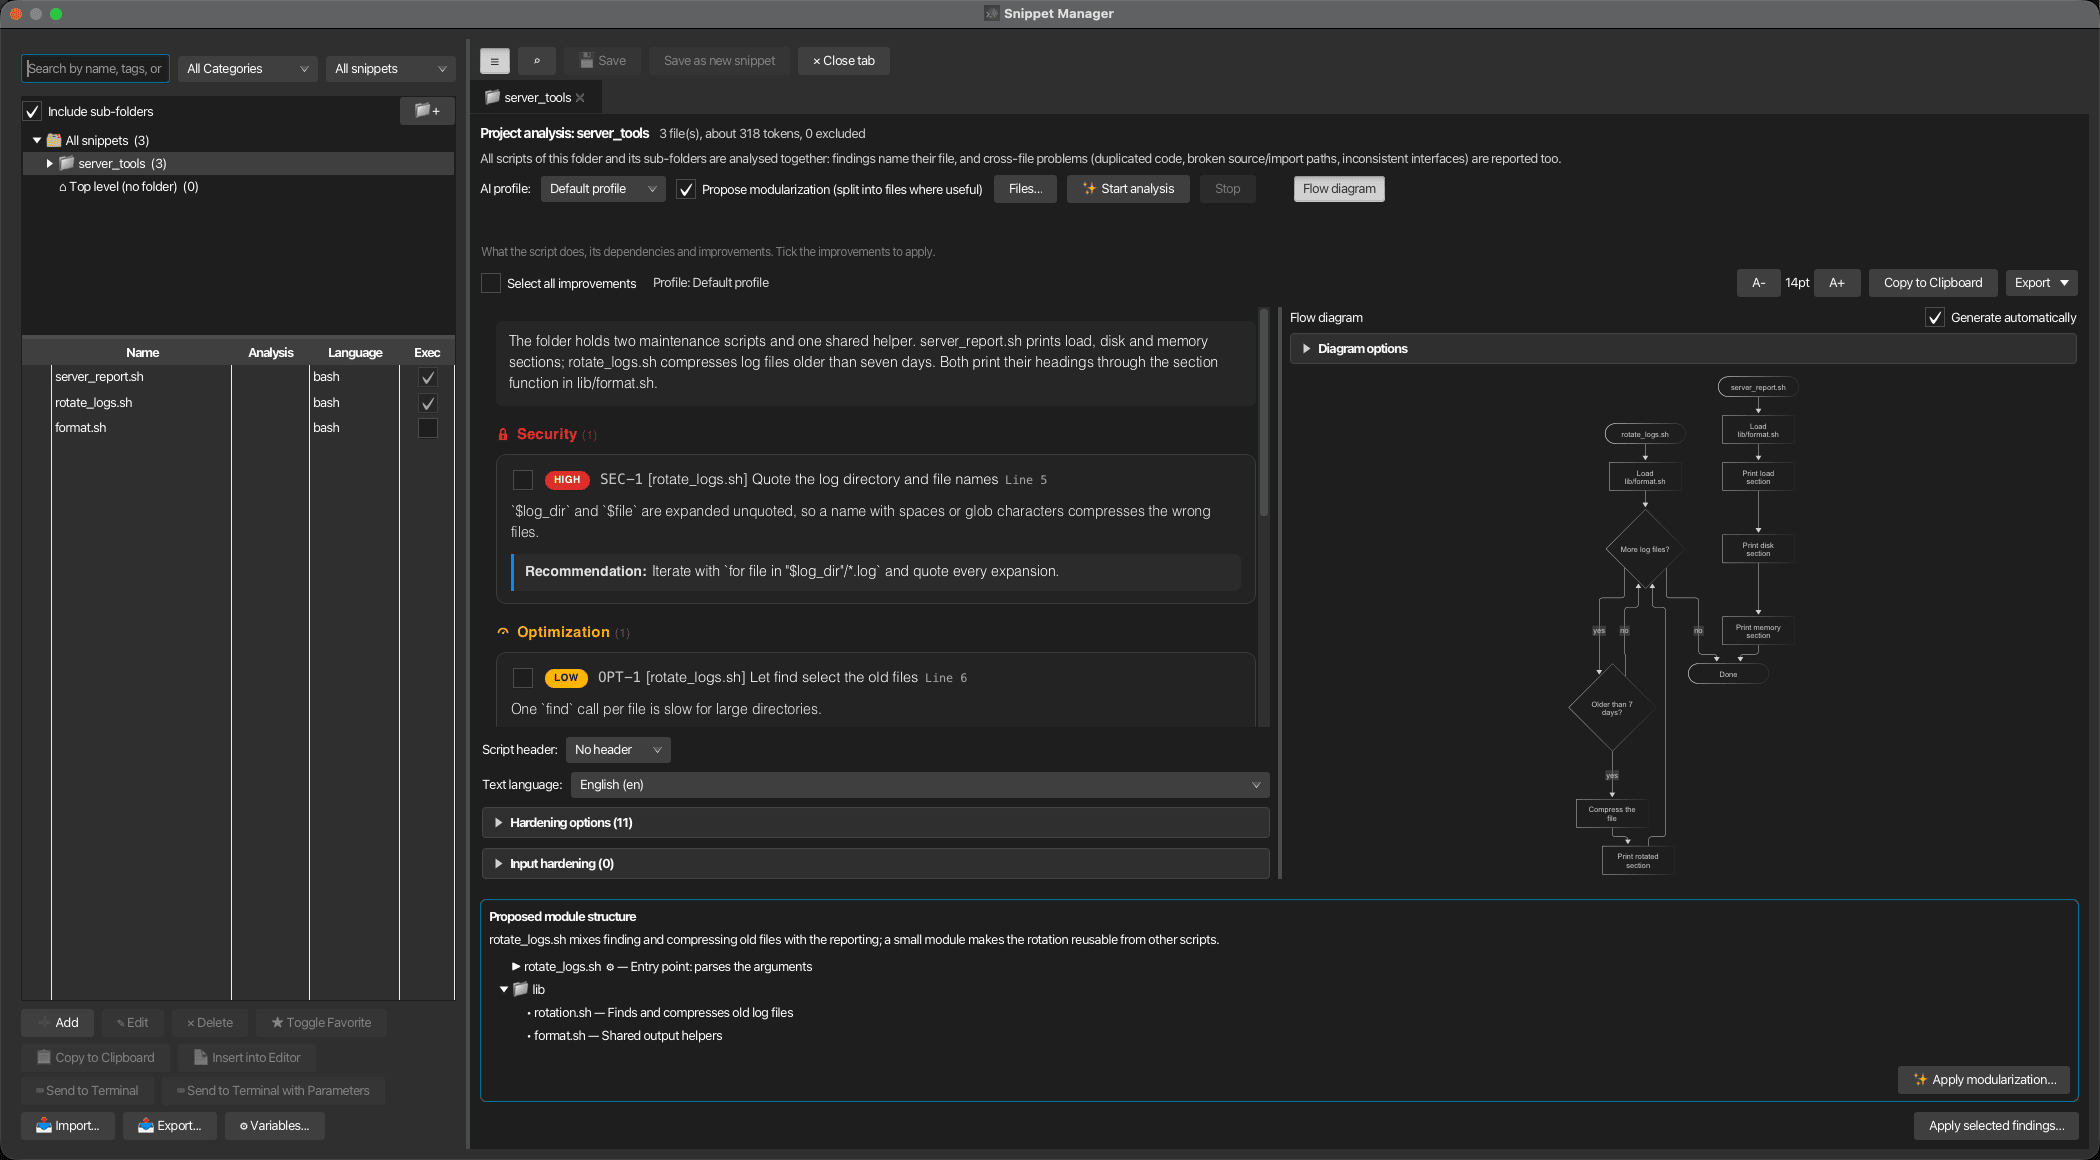
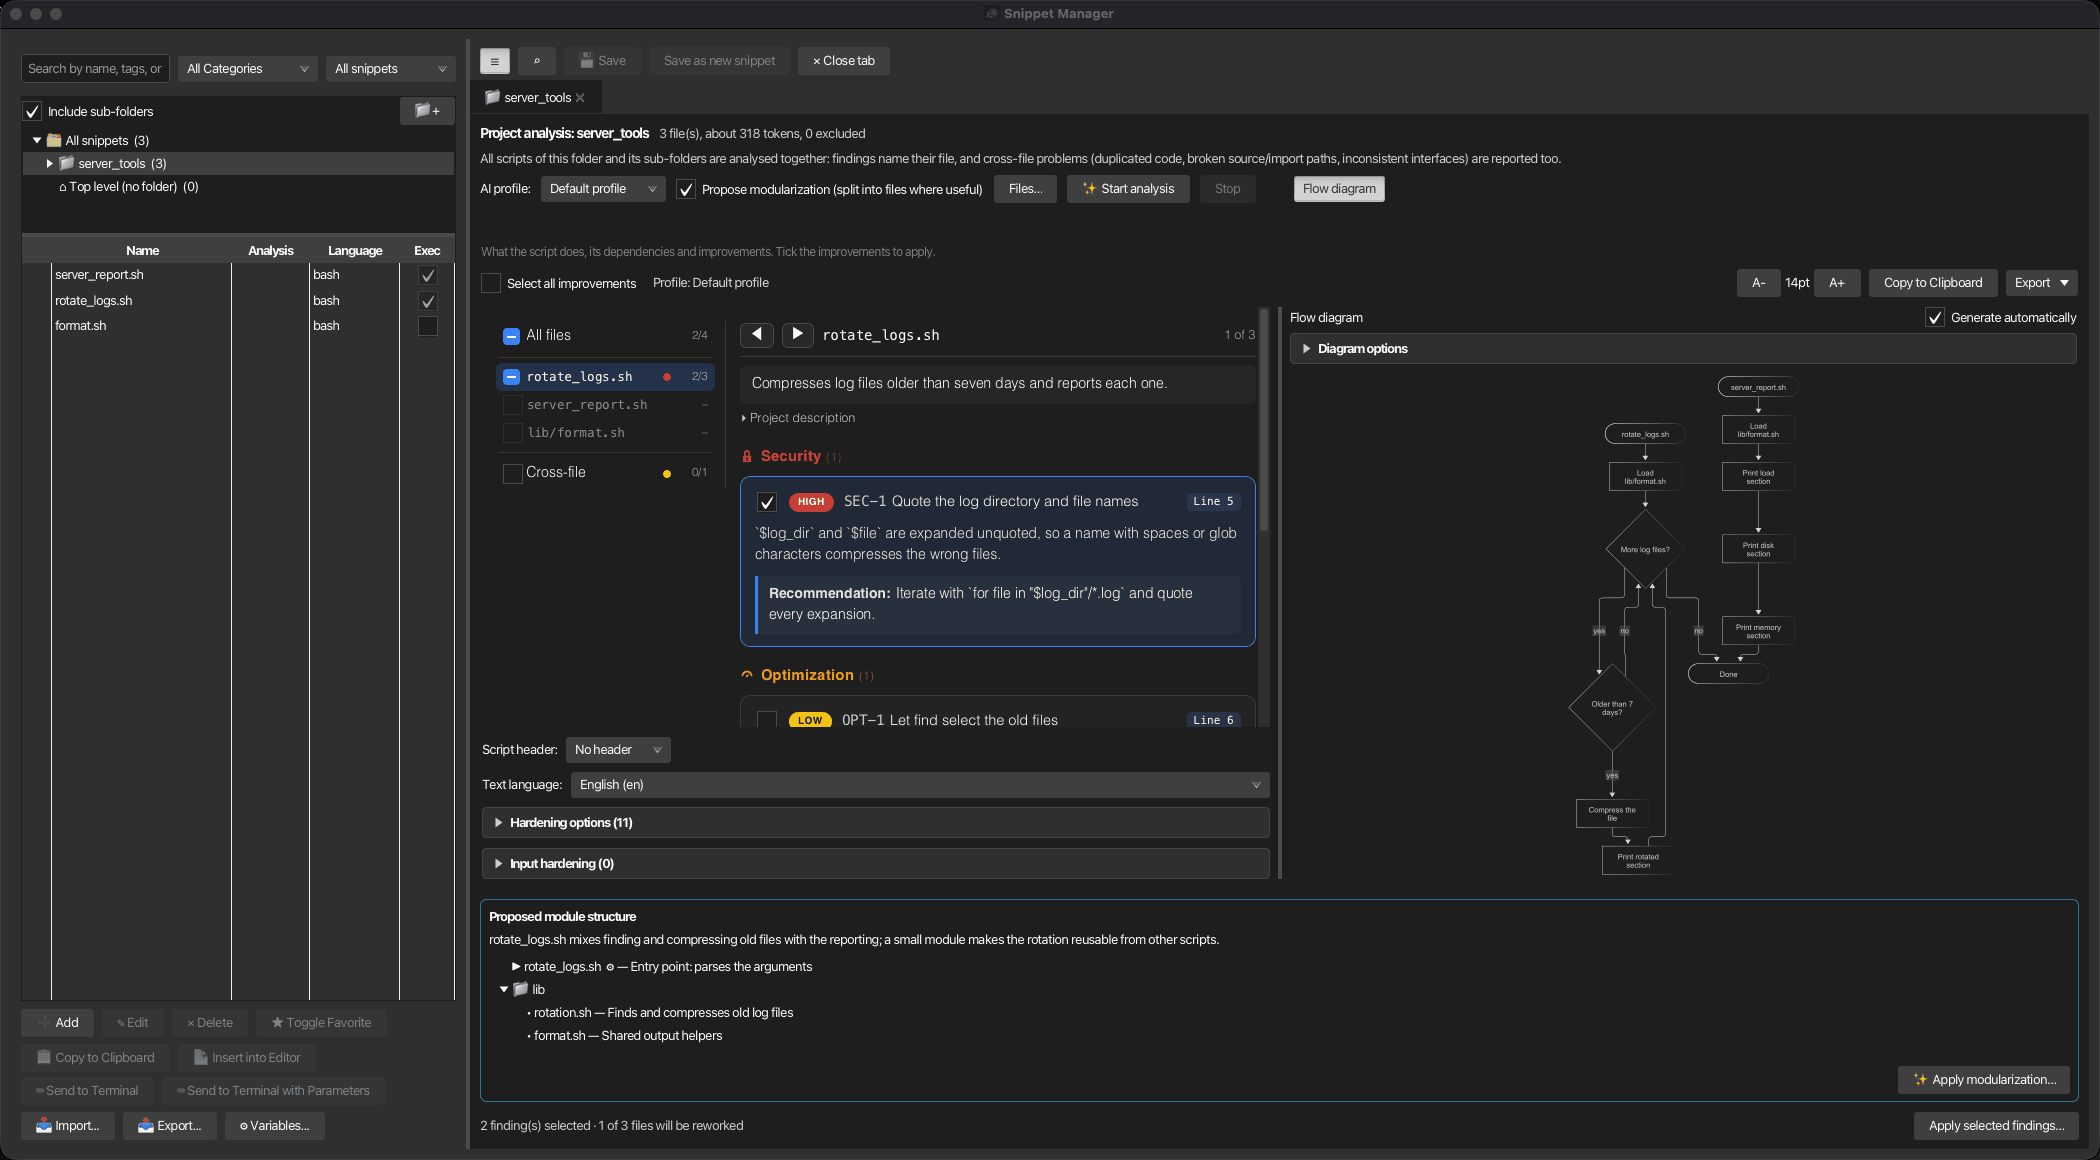
docs(snippets): recapture the folder analysis screenshot with the file list
snippetProjectAnalysisScreenshotStage seeds a description for each demo
file and opens the report on rotate_logs.sh with two findings ticked, so
the shot shows the file list, the file's description, the line chips and
the selection summary next to Apply selected findings. Captured with
screencapture from the staged window and quantized with pngquant.

diff --git a/src/test/java/de/kortty/ui/SnippetProjectAnalysisScreenshotStage.java b/src/test/java/de/kortty/ui/SnippetProjectAnalysisScreenshotStage.java
@@ -37,8 +37,9 @@ import java.util.concurrent.atomic.AtomicReference;
  *
  * <ul>
  *   <li>{@code project} (default) — the Snippet Manager with a demo folder selected in the library
- *       tree and its project-analysis tab open: findings tagged with their file, the options left,
- *       the flow diagram right and a modularization proposal below.</li>
+ *       tree and its project-analysis tab open on one file of its file list (its findings, two of
+ *       them ticked, and what the file does), the options left, the flow diagram right and a
+ *       modularization proposal below.</li>
  *   <li>{@code preview} — the multi-file review window of a modularization result: one diff tab
  *       per file and the directory tree.</li>
  * </ul>
@@ -147,10 +148,32 @@ public final class SnippetProjectAnalysisScreenshotStage {
             workspace.openFolderAnalysis(demo.folderId());
         });
         open.play();
+        PauseTransition pick = new PauseTransition(Duration.millis(6000));
+        pick.setOnFinished(e -> showFileWithTickedFindings(workspaceWindow));
+        pick.play();
         announceAndHold(workspaceWindow, doneFlag, done, () -> {
             workspaceWindow.hide();
             stage.hide();
         }, 9000);
+    }
+
+    /** Selects rotate_logs.sh in the report's file list and ticks two of its findings. */
+    private static void showFileWithTickedFindings(Window window) {
+        for (javafx.scene.Node node : window.getScene().getRoot().lookupAll(".web-view")) {
+            javafx.scene.web.WebEngine engine = ((javafx.scene.web.WebView) node).getEngine();
+            try {
+                Object found = engine.executeScript("!!document.getElementById('files')");
+                if (Boolean.TRUE.equals(found)) {
+                    engine.executeScript("[].forEach.call(document.querySelectorAll('.frow'),function(r){"
+                        + "if(r.getAttribute('data-file')==='rotate_logs.sh')r.click();});"
+                        + "window.korttyAnalysis.setSelected('imp:SEC-1,imp:DES-1');notifySelection();");
+                    return;
+                }
+            } catch (RuntimeException ignored) {
+                // Another page (the diagram) or not loaded yet.
+            }
+        }
+        System.err.println("could not find the project report");
     }
 
     // ---- Scene: the multi-file review window ----
@@ -312,11 +335,20 @@ public final class SnippetProjectAnalysisScreenshotStage {
                     "[rotate_logs.sh] Let find select the old files",
                     "One `find` call per file is slow for large directories.",
                     "Use `find \"$log_dir\" -name '*.log' -mtime +7 -exec gzip {} +`.", 6)));
+        List<SnippetAnalysisRecord.ProjectFileNote> files = context.files().stream()
+            .map(file -> new SnippetAnalysisRecord.ProjectFileNote(file.path(), switch (file.path()) {
+                case "server_report.sh" -> "Prints the load, disk and memory sections of the host.";
+                case "rotate_logs.sh" -> "Compresses log files older than seven days and reports each one.";
+                case "lib/format.sh" -> "Shared output helper: prints a section heading.";
+                default -> "";
+            }))
+            .toList();
         SnippetAnalysisRecord record = SnippetAnalysisRecord.fromAnalysis("demo-project",
             SnippetProjectAiSupport.folderKey(folderId), analysis,
             SnippetAnalysisRecord.Source.of(context.render(), "project", "en", "en", manager.folderPath(folderId)),
             new SnippetAnalysisRecord.Provenance(null, "Demo profile", null, List.of(), List.of(), "", null),
             SnippetAnalysisRecord.Purpose.ANALYSIS, null, System.currentTimeMillis())
+            .withProjectFiles(files)
             .withModularization(new ModularizationPlan(true,
                 "rotate_logs.sh mixes finding and compressing old files with the reporting; a small module "
                     + "makes the rotation reusable from other scripts.",
